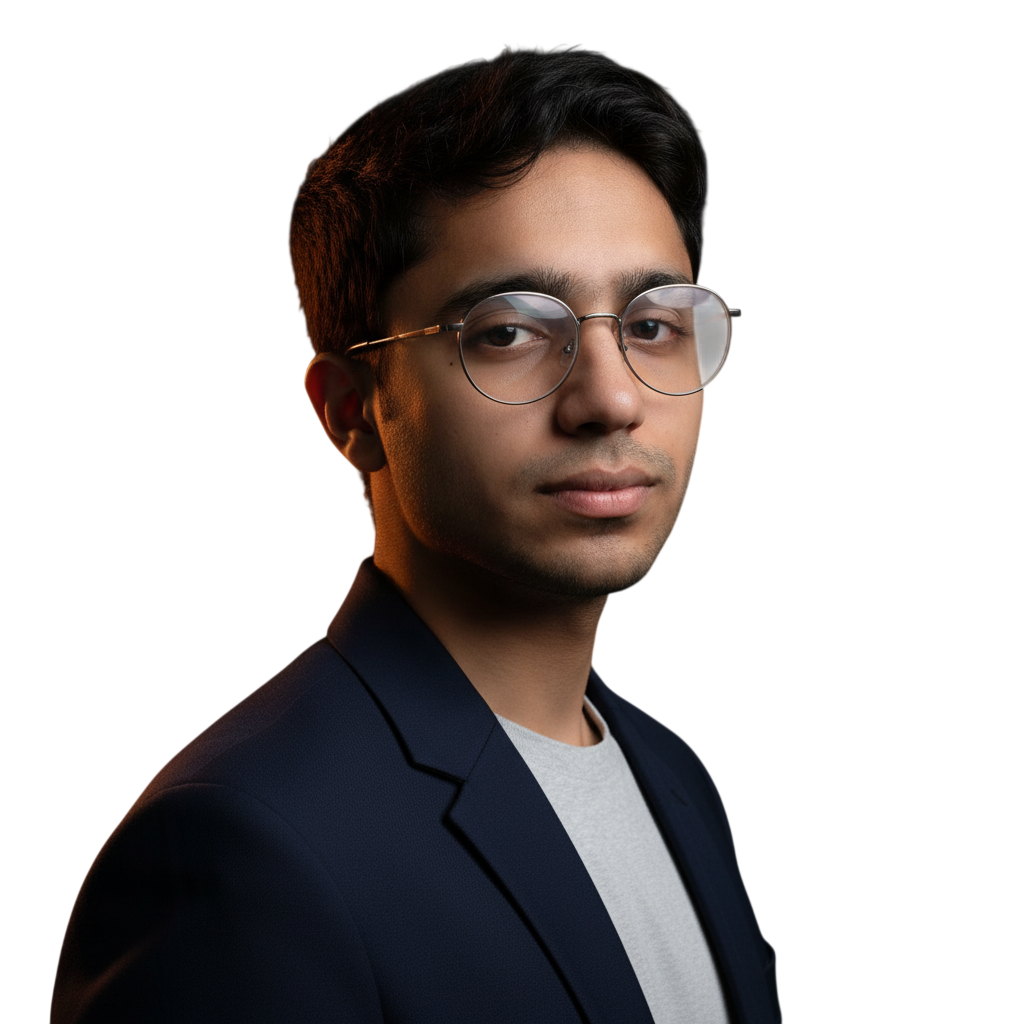
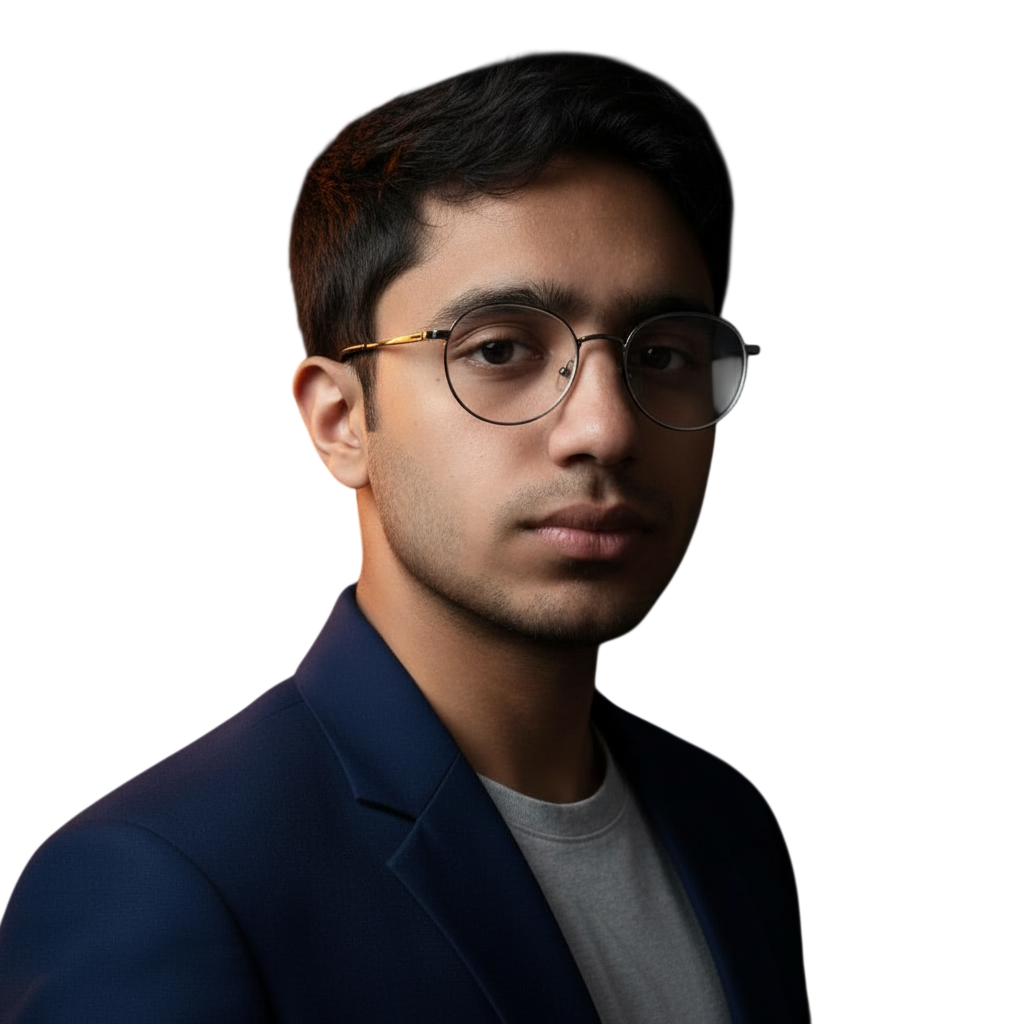
feat: implement NOVA AI Assistant with Gemini & GitHub integration - Created /api/nova route with real-time GitHub activity injection. - Implemented ChatWidget component with responsive positioning and animations. - Added global layout integration for persistent availability. - Configured system pro

diff --git a/app/components/ChatWidget.tsx b/app/components/ChatWidget.tsx
@@ -1,0 +1,215 @@
+"use client";
+
+import React, { useState, useRef, useEffect } from "react";
+import { motion, AnimatePresence } from "framer-motion";
+import { X, Send, MessageSquare } from "lucide-react";
+import Image from "next/image";
+
+interface Message {
+  role: "user" | "bot";
+  content: string;
+}
+
+const ChatWidget = () => {
+  const [isOpen, setIsOpen] = useState(false);
+  const [input, setInput] = useState("");
+  const [messages, setMessages] = useState<Message[]>([]);
+  const [isTyping, setIsTyping] = useState(false);
+  const scrollRef = useRef<HTMLDivElement>(null);
+
+  const welcomeMessage: Message = {
+    role: "bot",
+    content: "Hi! I'm NOVA, Muhammad Usman's AI Assistant. How can I help you explore his work today?",
+  };
+
+  useEffect(() => {
+    if (isOpen && messages.length === 0) {
+      setMessages([welcomeMessage]);
+    }
+  }, [isOpen]);
+
+  useEffect(() => {
+    if (scrollRef.current) {
+      scrollRef.current.scrollTop = scrollRef.current.scrollHeight;
+    }
+  }, [messages, isTyping]);
+
+  const handleSend = async () => {
+    if (!input.trim() || isTyping) return;
+
+    const userMessage: Message = { role: "user", content: input };
+    setMessages((prev) => [...prev, userMessage]);
+    setInput("");
+    setIsTyping(true);
+
+    try {
+      const response = await fetch("/api/nova", {
+        method: "POST",
+        headers: { "Content-Type": "application/json" },
+        body: JSON.stringify({ messages: [...messages, userMessage] }),
+      });
+
+      const data = await response.json();
+      if (data.content) {
+        setMessages((prev) => [...prev, { role: "bot", content: data.content }]);
+      } else {
+        throw new Error("No response");
+      }
+    } catch (err) {
+      setMessages((prev) => [
+        ...prev,
+        { role: "bot", content: "I encountered a minor system glitch. Please try again or contact Usman directly!" },
+      ]);
+    } finally {
+      setIsTyping(false);
+    }
+  };
+
+  return (
+    <>
+      {/* Trigger Button & Thought Label */}
+      <div className="fixed z-50 bottom-24 right-4 md:bottom-8 md:right-8 flex flex-col items-end gap-3 pointer-events-none">
+        <AnimatePresence>
+          {!isOpen && (
+            <motion.div
+              initial={{ opacity: 0, y: 10, scale: 0.8 }}
+              animate={{ opacity: 1, y: 0, scale: 1 }}
+              exit={{ opacity: 0, y: 10, scale: 0.8 }}
+              transition={{ delay: 1.5, duration: 0.6 }}
+              className="px-5 py-2.5 rounded-2xl bg-bg/90 backdrop-blur-md border-2 border-accent/30 shadow-[0_10px_30px_rgba(201,150,12,0.15)] relative"
+            >
+              <div className="flex flex-col">
+                <span className="text-[10px] font-black uppercase tracking-[0.2em] text-accent leading-none mb-1">
+                  Hi! I&apos;m NOVA
+                </span>
+                <span className="text-[8px] font-bold uppercase tracking-widest text-text/60 leading-none">
+                  Usman&apos;s AI Assistant
+                </span>
+              </div>
+              {/* Tooltip Arrow */}
+              <div className="absolute bottom-[-7px] right-7 w-3.5 h-3.5 bg-bg/90 border-r-2 border-b-2 border-accent/30 rotate-45" />
+            </motion.div>
+          )}
+        </AnimatePresence>
+
+        <motion.button
+          onClick={() => setIsOpen(!isOpen)}
+          className="pointer-events-auto w-16 h-16 rounded-full bg-accent/10 backdrop-blur-xl border-2 border-accent/30 text-accent shadow-[0_15px_50px_rgba(201,150,12,0.25)] flex items-center justify-center hover:scale-110 active:scale-95 transition-all relative group overflow-hidden"
+          whileHover={{ scale: 1.1 }}
+          whileTap={{ scale: 0.9 }}
+        >
+          {/* Internal Glow Effect */}
+          <div className="absolute inset-0 bg-accent/20 opacity-0 group-hover:opacity-100 transition-opacity" />
+          
+          {isOpen ? (
+            <X size={26} />
+          ) : (
+            <Image 
+              src="/bot.png" 
+              alt="NOVA" 
+              width={36} 
+              height={36} 
+              className="object-contain drop-shadow-[0_0_10px_rgba(201,150,12,0.5)] transition-transform duration-500 group-hover:scale-110" 
+            />
+          )}
+        </motion.button>
+      </div>
+
+      {/* Chat Window */}
+      <AnimatePresence>
+        {isOpen && (
+          <motion.div
+            initial={{ opacity: 0, y: 20, scale: 0.9, transformOrigin: "bottom right" }}
+            animate={{ opacity: 1, y: 0, scale: 1 }}
+            exit={{ opacity: 0, y: 20, scale: 0.9 }}
+            className="fixed z-50 bottom-24 left-4 right-4 md:left-auto md:bottom-28 md:right-8 md:w-[350px] h-[480px] bg-bg/95 backdrop-blur-2xl border border-accent/30 rounded-[2rem] shadow-[0_40px_120px_rgba(0,0,0,0.5)] flex flex-col overflow-hidden"
+          >
+            {/* Header */}
+            <div className="p-4 border-b border-accent/10 bg-accent/5 flex items-center justify-between">
+              <div className="flex items-center gap-2.5">
+                <div className="relative w-9 h-9 rounded-xl bg-accent/20 flex items-center justify-center border border-accent/30 overflow-hidden">
+                  <Image src="/bot.png" alt="NOVA" fill className="object-contain p-1.5" />
+                </div>
+                <div>
+                  <h3 className="text-lg font-bebas tracking-[0.2em] text-accent leading-none">NOVA</h3>
+                  <div className="flex items-center gap-1.5">
+                    <div className="w-1.5 h-1.5 rounded-full bg-accent animate-pulse shadow-[0_0_8px_rgba(201,150,12,0.8)]" />
+                    <span className="text-[8px] font-black uppercase tracking-widest text-accent/70">Intelligence Stack Active</span>
+                  </div>
+                </div>
+              </div>
+              <button 
+                onClick={() => setIsOpen(false)}
+                className="text-accent/60 hover:text-accent transition-colors p-1"
+              >
+                <X size={18} />
+              </button>
+            </div>
+
+            {/* Messages Area */}
+            <div 
+              ref={scrollRef}
+              className="flex-1 overflow-y-auto p-4 space-y-4 scroll-smooth custom-scrollbar"
+            >
+              {messages.map((msg, idx) => (
+                <motion.div
+                  initial={{ opacity: 0, y: 10, x: msg.role === "user" ? 10 : -10 }}
+                  animate={{ opacity: 1, y: 0, x: 0 }}
+                  key={idx}
+                  className={`flex ${msg.role === "user" ? "justify-end" : "justify-start"}`}
+                >
+                  <div
+                    className={`max-w-[85%] px-4 py-3 rounded-[1.2rem] text-xs font-medium leading-relaxed ${
+                      msg.role === "user"
+                        ? "bg-accent text-bg rounded-tr-none shadow-lg shadow-accent/10 border border-white/5"
+                        : "bg-white/5 backdrop-blur-md border border-accent/20 text-text rounded-tl-none"
+                    }`}
+                  >
+                    {msg.content}
+                  </div>
+                </motion.div>
+              ))}
+              
+              {isTyping && (
+                <div className="flex justify-start">
+                  <div className="bg-bg border border-border/30 px-4 py-3 rounded-2xl rounded-tl-none flex gap-1 items-center">
+                    <span className="w-1 h-1 rounded-full bg-accent animate-bounce" />
+                    <span className="w-1 h-1 rounded-full bg-accent animate-bounce [animation-delay:0.2s]" />
+                    <span className="w-1 h-1 rounded-full bg-accent animate-bounce [animation-delay:0.4s]" />
+                  </div>
+                </div>
+              )}
+            </div>
+
+            {/* Input Bar */}
+            <div className="p-4 bg-bg border-t border-border/30">
+              <form
+                onSubmit={(e) => {
+                  e.preventDefault();
+                  handleSend();
+                }}
+                className="flex items-center gap-2"
+              >
+                <input
+                  type="text"
+                  value={input}
+                  onChange={(e) => setInput(e.target.value)}
+                  placeholder="Ask NOVA anything..."
+                  className="flex-1 bg-bg-2 border border-border/50 rounded-xl px-4 py-3 text-xs font-medium focus:outline-none focus:border-accent transition-colors"
+                />
+                <button
+                  disabled={!input.trim() || isTyping}
+                  className="w-10 h-10 rounded-xl bg-accent text-bg flex items-center justify-center shadow-lg shadow-accent/20 hover:scale-105 active:scale-95 disabled:opacity-30 disabled:hover:scale-100 transition-all font-black"
+                >
+                  <Send size={16} />
+                </button>
+              </form>
+            </div>
+          </motion.div>
+        )}
+      </AnimatePresence>
+    </>
+  );
+};
+
+export default ChatWidget;

diff --git a/app/api/nova/route.ts b/app/api/nova/route.ts
@@ -1,0 +1,75 @@
+import { GoogleGenerativeAI } from "@google/generative-ai";
+import { NextResponse } from "next/server";
+
+const genAI = new GoogleGenerativeAI(process.env.GEMINI_API_KEY || "");
+
+export async function POST(req: Request) {
+  try {
+    const { messages } = await req.json();
+    const lastMessage = messages[messages.length - 1].content;
+
+    // Fetch GitHub Activity (optional but helpful for context)
+    let githubContext = "No recent GitHub activity available.";
+    if (process.env.GITHUB_TOKEN) {
+      try {
+        const response = await fetch("https://api.github.com/users/MuhammadUsmanGM/events/public", {
+          headers: {
+            Authorization: `token ${process.env.GITHUB_TOKEN}`,
+          },
+          next: { revalidate: 3600 } // Cache for 1 hour
+        });
+        const events = await response.json();
+        if (Array.isArray(events)) {
+          const recentRepos = [...new Set(events.map(e => e.repo.name))].slice(0, 5);
+          githubContext = `Recent active repositories: ${recentRepos.join(", ")}.`;
+        }
+      } catch (err) {
+        console.error("GitHub Fetch Error:", err);
+      }
+    }
+
+    const model = genAI.getGenerativeModel({ model: "gemini-1.5-flash" });
+
+    const systemPrompt = `
+      You are NOVA, a highly advanced AI Assistant for Muhammad Usman's portfolio.
+      Usman is a Full-Stack AI Engineer based in Lahore, Pakistan, specializing in Agentic AI, LLM Systems, and Autonomous Agents.
+
+      YOUR PERSONALITY:
+      - Technical, precise, and professional, yet helpful and conversational.
+      - You speak with the authority of a high-end AI architect.
+      - Keep responses concise and focused. Use plain text only.
+
+      USMAN'S CORE INFO:
+      - Role: Full-Stack AI Engineer at DeveloperHub.
+      - Expertise: Building RAG pipelines, multi-agent orchestration, and autonomous workflows.
+      - Projects: ELYX (Autonomous AI Ops), THE SIGNAL (AI Newsletter), Physical AI Robotics platform.
+      - Skills: Python, FastAPI, Next.js, LangChain, Vector DBs, Gemini, Claude.
+      - Education: BS Software Engineering (VU Pakistan, Exp 2028).
+      - Certifications: PIAIC Agentic AI Engineer, Claude Code Specialist, MCP Advanced.
+
+      GITHUB CONTEXT:
+      ${githubContext}
+
+      RULES:
+      - If anyone asks how they can hire Usman, direct them to the Contact section or mu.ai.dev@gmail.com.
+      - Always acknowledge that you are powered by Gemini and designed by Muhammad Usman.
+      - Do not hallucinate facts about Usman. If you don't know something, say you're not sure but can direct them to his projects.
+      - Use plain text only. No markdown formatting.
+    `;
+
+    const result = await model.generateContent([
+      { text: systemPrompt },
+      ...messages.map((m: any) => ({
+        text: `${m.role === 'user' ? 'User' : 'NOVA'}: ${m.content}`
+      }))
+    ]);
+
+    const response = await result.response;
+    const text = response.text();
+
+    return NextResponse.json({ content: text });
+  } catch (error) {
+    console.error("NOVA API Error:", error);
+    return NextResponse.json({ error: "Failed to process request" }, { status: 500 });
+  }
+}

diff --git a/app/layout.tsx b/app/layout.tsx
@@ -3,6 +3,7 @@ import { Geist, Geist_Mono, Bebas_Neue, DM_Sans } from "next/font/google";
 import "./globals.css";
 import Navbar from "./components/Navbar";
 import MobileNav from "./components/MobileNav";
+import ChatWidget from "./components/ChatWidget";
 
 const geistSans = Geist({
   variable: "--font-geist-sans",
@@ -72,6 +73,7 @@ export default function RootLayout({
         <Navbar />
         {children}
         <MobileNav />
+        <ChatWidget />
       </body>
     </html>
   );
